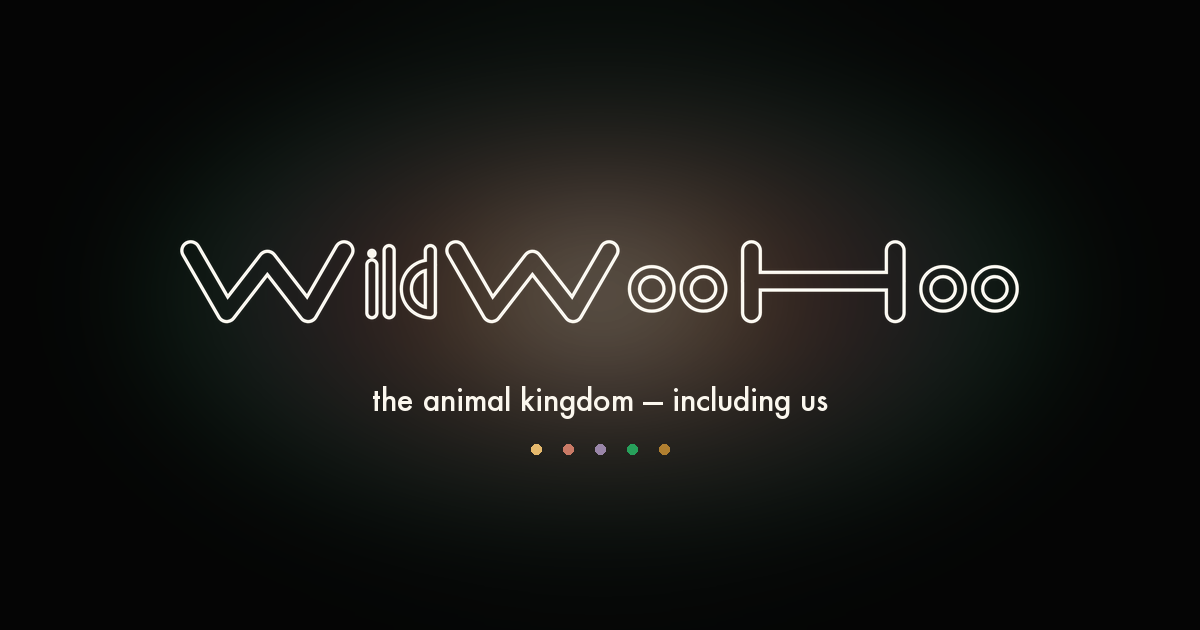
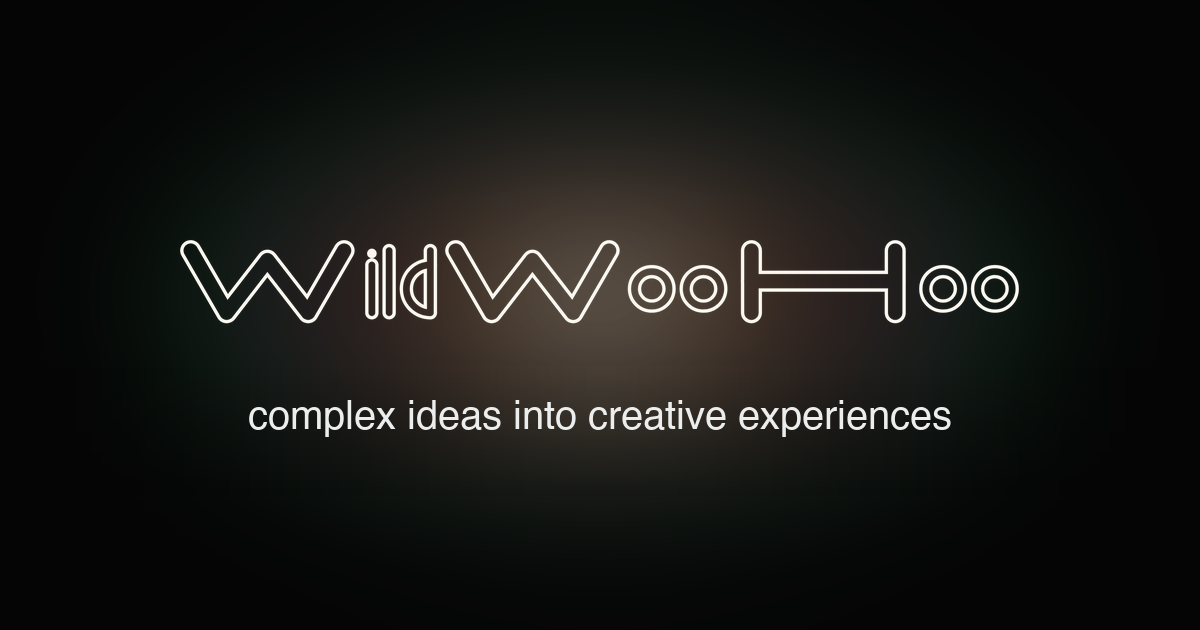
OG share card: new dark image (wordmark + 'complex ideas into creative experiences')
Regenerated og-card.png: kept the wordmark and dark composition, replaced the retired 'the animal kingdom - including us' tagline and dropped the old multi-colour dots. Bumped og:image ?v across all pages so social scrapers refetch.

Changed region(s): [[0.2158, 0.6032, 0.8017, 0.7238]]

diff --git a/index.html b/index.html
@@ -35,7 +35,7 @@
 <meta property="og:title" content="WildWooHoo: a creative innovation studio in Sydney">
 <meta property="og:description" content="WildWooHoo is a creative innovation studio in Sydney. One method turns complex ideas into creative experiences: science school incursions, STEAM workshops, experiential keynotes and sci pop music, from peer-reviewed research to popular culture.">
 <meta property="og:url" content="https://wildwoohoo.com/">
-<meta property="og:image" content="https://wildwoohoo.com/og-card.png?v=20260529c">
+<meta property="og:image" content="https://wildwoohoo.com/og-card.png?v=20260711">
 <meta property="og:image:width" content="1200">
 <meta property="og:image:height" content="630">
 <meta property="og:image:alt" content="WildWooHoo, a creative innovation studio in Sydney">
@@ -43,7 +43,7 @@
 <meta name="twitter:card" content="summary_large_image">
 <meta name="twitter:title" content="WildWooHoo: a creative innovation studio in Sydney">
 <meta name="twitter:description" content="WildWooHoo is a creative innovation studio in Sydney. One method turns complex ideas into creative experiences: science school incursions, STEAM workshops, experiential keynotes and sci pop music, from peer-reviewed research to popular culture.">
-<meta name="twitter:image" content="https://wildwoohoo.com/og-card.png?v=20260529c">
+<meta name="twitter:image" content="https://wildwoohoo.com/og-card.png?v=20260711">
 <link rel="alternate" hreflang="en-au" href="https://wildwoohoo.com/">
 <link rel="alternate" hreflang="en" href="https://wildwoohoo.com/">
 <link rel="alternate" hreflang="x-default" href="https://wildwoohoo.com/">
@@ -58,7 +58,7 @@
   "description": "WildWooHoo is a creative innovation studio in Sydney that turns complex ideas into creative experiences, delivering science school incursions, STEAM workshops, experiential keynotes and sci pop productions across Greater Sydney and Canberra.",
   "url": "https://wildwoohoo.com",
   "logo": "https://wildwoohoo.com/apple-touch-icon.png?v=20260608-clean",
-  "image": "https://wildwoohoo.com/og-card.png?v=20260529c",
+  "image": "https://wildwoohoo.com/og-card.png?v=20260711",
   "founder": {"@id": "https://drweli.com/#person"},
   "areaServed": [
     {"@type": "AdministrativeArea", "name": "Greater Sydney"},

diff --git a/news/scientists-in-popular-music/index.html b/news/scientists-in-popular-music/index.html
@@ -36,7 +36,7 @@
 <meta property="og:title" content="A career lane for science graduates drawn to film, music and culture">
 <meta property="og:description" content="A field guide for science graduates drawn to film, television, journalism and music. Named organisations, directories and rosters across screen advising, science communication and the emerging music corner, with real examples and how to start.">
 <meta property="og:url" content="https://wildwoohoo.com/news/scientists-in-popular-music/">
-<meta property="og:image" content="https://wildwoohoo.com/og-card.png?v=20260604">
+<meta property="og:image" content="https://wildwoohoo.com/og-card.png?v=20260711">
 <meta property="og:locale" content="en_AU">
 <meta property="article:published_time" content="2026-06-25T08:00:00Z">
 <meta property="article:section" content="News">
@@ -47,7 +47,7 @@
 <meta name="twitter:card" content="summary_large_image">
 <meta name="twitter:title" content="A career lane for science graduates drawn to film, music and culture">
 <meta name="twitter:description" content="A field guide for science graduates drawn to film, television, journalism and music. Named organisations, directories and rosters across screen advising, science communication and the emerging music corner, with real examples and how to start.">
-<meta name="twitter:image" content="https://wildwoohoo.com/og-card.png?v=20260604">
+<meta name="twitter:image" content="https://wildwoohoo.com/og-card.png?v=20260711">
 
 <script type="application/ld+json">
 {
@@ -60,7 +60,7 @@
   "publisher": {"@type": "Organization", "name": "WildWooHoo", "url": "https://wildwoohoo.com/", "logo": {"@type": "ImageObject", "url": "https://wildwoohoo.com/og-card.png"}},
   "mainEntityOfPage": {"@type": "WebPage", "@id": "https://wildwoohoo.com/news/scientists-in-popular-music/"},
   "description": "A field guide for science graduates drawn to film, television, journalism and music. Named organisations, directories and rosters across screen advising, science communication and the emerging music corner, with real examples and how to start.",
-  "image": "https://wildwoohoo.com/og-card.png?v=20260604"
+  "image": "https://wildwoohoo.com/og-card.png?v=20260711"
 }
 </script>
 

diff --git a/news/living-wild/index.html b/news/living-wild/index.html
@@ -36,7 +36,7 @@
 <meta property="og:title" content="Living Wild, the partnership reaching into the field">
 <meta property="og:description" content="WildWooHoo x WELI turns behavioural-ecology research into popular music. Living Wild welcomes research labs and field groups studying wild animals to make more sci pop stories from wildlife and the lives we share with it.">
 <meta property="og:url" content="https://wildwoohoo.com/news/living-wild/">
-<meta property="og:image" content="https://wildwoohoo.com/og-card.png?v=20260604">
+<meta property="og:image" content="https://wildwoohoo.com/og-card.png?v=20260711">
 <meta property="og:locale" content="en_AU">
 <meta property="article:published_time" content="2026-06-26T00:00:00Z">
 <meta property="article:section" content="News">
@@ -47,7 +47,7 @@
 <meta name="twitter:card" content="summary_large_image">
 <meta name="twitter:title" content="Living Wild, the partnership reaching into the field">
 <meta name="twitter:description" content="WildWooHoo x WELI welcomes research labs studying wild animals to make more sci pop stories from wildlife and the lives we share with it.">
-<meta name="twitter:image" content="https://wildwoohoo.com/og-card.png?v=20260604">
+<meta name="twitter:image" content="https://wildwoohoo.com/og-card.png?v=20260711">
 
 <script type="application/ld+json">
 {
@@ -60,7 +60,7 @@
   "publisher": {"@type": "Organization", "name": "WildWooHoo", "url": "https://wildwoohoo.com/", "logo": {"@type": "ImageObject", "url": "https://wildwoohoo.com/og-card.png"}},
   "mainEntityOfPage": {"@type": "WebPage", "@id": "https://wildwoohoo.com/news/living-wild/"},
   "description": "WildWooHoo x WELI turns behavioural-ecology research into popular music. Living Wild welcomes research labs and field groups studying wild animals to make more stories in popular music from wildlife and the lives we share with it.",
-  "image": "https://wildwoohoo.com/og-card.png?v=20260604"
+  "image": "https://wildwoohoo.com/og-card.png?v=20260711"
 }
 </script>
 

diff --git a/news/sync-licensed-international/index.html b/news/sync-licensed-international/index.html
@@ -33,7 +33,7 @@
 <meta property="og:title" content="International sync placements, MSNBC + UFA + Mustang III">
 <meta property="og:description" content="Kangaroo Time sync-licensed by three international broadcasters since 2024. The masters are held with cleared sync rights for sync agents and broadcasters.">
 <meta property="og:url" content="https://wildwoohoo.com/news/sync-licensed-international/">
-<meta property="og:image" content="https://wildwoohoo.com/og-card.png?v=20260604">
+<meta property="og:image" content="https://wildwoohoo.com/og-card.png?v=20260711">
 <meta property="og:locale" content="en_AU">
 <meta property="article:published_time" content="2024-03-01T00:00:00Z">
 <meta property="article:section" content="News">
@@ -45,7 +45,7 @@
 <meta name="twitter:card" content="summary_large_image">
 <meta name="twitter:title" content="International sync placements, MSNBC + UFA + Mustang III">
 <meta name="twitter:description" content="Kangaroo Time sync-licensed by three international broadcasters since 2024. Masters held with cleared sync rights.">
-<meta name="twitter:image" content="https://wildwoohoo.com/og-card.png?v=20260604">
+<meta name="twitter:image" content="https://wildwoohoo.com/og-card.png?v=20260711">
 
 <script type="application/ld+json">
 {
@@ -58,7 +58,7 @@
   "publisher": {"@type": "Organization", "name": "WildWooHoo", "url": "https://wildwoohoo.com/", "logo": {"@type": "ImageObject", "url": "https://wildwoohoo.com/og-card.png"}},
   "mainEntityOfPage": {"@type": "WebPage", "@id": "https://wildwoohoo.com/news/sync-licensed-international/"},
   "description": "Three international broadcasters sync-licensed Kangaroo Time in 2024: MSNBC The 11th Hour, UFA Show + Factual, and Productions Mustang III. Documentation of cleared rights, broadcaster context, and what the placements prove for sync agents and festival programmers.",
-  "image": "https://wildwoohoo.com/og-card.png?v=20260604"
+  "image": "https://wildwoohoo.com/og-card.png?v=20260711"
 }
 </script>
 

diff --git a/news/falling-walls-engage-2025/index.html b/news/falling-walls-engage-2025/index.html
@@ -33,7 +33,7 @@
 <meta property="og:title" content="Falling Walls Engage 2025, Top 30 for 'Science and the People'">
 <meta property="og:description" content="Dr WELI's public-engagement programme 'Science and the People' in the Top 30 of the Falling Walls Engage prize. WildWooHoo Studio formed afterwards.">
 <meta property="og:url" content="https://wildwoohoo.com/news/falling-walls-engage-2025/">
-<meta property="og:image" content="https://wildwoohoo.com/og-card.png?v=20260604">
+<meta property="og:image" content="https://wildwoohoo.com/og-card.png?v=20260711">
 <meta property="og:locale" content="en_AU">
 <meta property="article:published_time" content="2025-11-01T00:00:00Z">
 <meta property="article:section" content="News">
@@ -44,7 +44,7 @@
 <meta name="twitter:card" content="summary_large_image">
 <meta name="twitter:title" content="Falling Walls Engage 2025, Top 30 for 'Science and the People'">
 <meta name="twitter:description" content="Dr WELI's public-engagement programme 'Science and the People' in the Top 30. WildWooHoo Studio formed afterwards.">
-<meta name="twitter:image" content="https://wildwoohoo.com/og-card.png?v=20260604">
+<meta name="twitter:image" content="https://wildwoohoo.com/og-card.png?v=20260711">
 
 <script type="application/ld+json">
 {
@@ -57,7 +57,7 @@
   "publisher": {"@type": "Organization", "name": "WildWooHoo", "url": "https://wildwoohoo.com/", "logo": {"@type": "ImageObject", "url": "https://wildwoohoo.com/og-card.png"}},
   "mainEntityOfPage": {"@type": "WebPage", "@id": "https://wildwoohoo.com/news/falling-walls-engage-2025/"},
   "description": "Dr WELI's public-engagement programme 'Science and the People' was named in the Top 30 of the 2025 Falling Walls Engage prize. WildWooHoo Studio formed afterwards. Full proposal at weli.my.canva.site/scienceforthepeople.",
-  "image": "https://wildwoohoo.com/og-card.png?v=20260604"
+  "image": "https://wildwoohoo.com/og-card.png?v=20260711"
 }
 </script>
 

diff --git a/news/dance-your-phd-2024/index.html b/news/dance-your-phd-2024/index.html
@@ -33,7 +33,7 @@
 <meta property="og:title" content="Dance Your PhD 2024, Kangaroo Time wins">
 <meta property="og:description" content="On 26 February 2024, Kangaroo Time was named the AAAS Dance Your PhD Global Winner 2024. How a behaviour-ecology PhD became a song, a music video and a multicultural dance cast.">
 <meta property="og:url" content="https://wildwoohoo.com/news/dance-your-phd-2024/">
-<meta property="og:image" content="https://wildwoohoo.com/og-card.png?v=20260604">
+<meta property="og:image" content="https://wildwoohoo.com/og-card.png?v=20260711">
 <meta property="og:locale" content="en_AU">
 <meta property="article:published_time" content="2024-02-26T16:00:00Z">
 <meta property="article:section" content="News">
@@ -44,7 +44,7 @@
 <meta name="twitter:card" content="summary_large_image">
 <meta name="twitter:title" content="Dance Your PhD 2024, Kangaroo Time wins">
 <meta name="twitter:description" content="On 26 February 2024, Kangaroo Time was named the AAAS Dance Your PhD Global Winner 2024. How a behaviour-ecology PhD became a song and a music video.">
-<meta name="twitter:image" content="https://wildwoohoo.com/og-card.png?v=20260604">
+<meta name="twitter:image" content="https://wildwoohoo.com/og-card.png?v=20260711">
 
 <script type="application/ld+json">
 {
@@ -57,7 +57,7 @@
   "publisher": {"@type": "Organization", "name": "WildWooHoo", "url": "https://wildwoohoo.com/", "logo": {"@type": "ImageObject", "url": "https://wildwoohoo.com/og-card.png"}},
   "mainEntityOfPage": {"@type": "WebPage", "@id": "https://wildwoohoo.com/news/dance-your-phd-2024/"},
   "description": "On 26 February 2024, Kangaroo Time was named the AAAS Dance Your PhD Global Winner 2024. The story of the work, the press coverage and the events that followed.",
-  "image": "https://wildwoohoo.com/og-card.png?v=20260604"
+  "image": "https://wildwoohoo.com/og-card.png?v=20260711"
 }
 </script>
 

diff --git a/news/cabra-da-peste-2024/index.html b/news/cabra-da-peste-2024/index.html
@@ -33,7 +33,7 @@
 <meta property="og:title" content="Cabra da Peste, a song to open the Encontro Anual de Etologia 2024">
 <meta property="og:description" content="A research-to-song original by WELI, commissioned to open Brazil's annual ethology meeting. Funded by an ACT Science Week grant.">
 <meta property="og:url" content="https://wildwoohoo.com/news/cabra-da-peste-2024/">
-<meta property="og:image" content="https://wildwoohoo.com/og-card.png?v=20260604">
+<meta property="og:image" content="https://wildwoohoo.com/og-card.png?v=20260711">
 <meta property="og:locale" content="en_AU">
 <meta property="article:published_time" content="2024-12-01T00:00:00Z">
 <meta property="article:section" content="News">
@@ -44,7 +44,7 @@
 <meta name="twitter:card" content="summary_large_image">
 <meta name="twitter:title" content="Cabra da Peste, a song to open the Encontro Anual de Etologia 2024">
 <meta name="twitter:description" content="A research-to-song original by WELI, commissioned to open Brazil's annual ethology meeting.">
-<meta name="twitter:image" content="https://wildwoohoo.com/og-card.png?v=20260604">
+<meta name="twitter:image" content="https://wildwoohoo.com/og-card.png?v=20260711">
 
 <script type="application/ld+json">
 {
@@ -57,7 +57,7 @@
   "publisher": {"@type": "Organization", "name": "WildWooHoo", "url": "https://wildwoohoo.com/", "logo": {"@type": "ImageObject", "url": "https://wildwoohoo.com/og-card.png"}},
   "mainEntityOfPage": {"@type": "WebPage", "@id": "https://wildwoohoo.com/news/cabra-da-peste-2024/"},
   "description": "Cabra da Peste (G.O.A.T.) is a research-to-song original by WELI, commissioned to open the Encontro Anual de Etologia 2024, the Brazilian Ethology Society's annual meeting. Funded by an ACT Science Week grant.",
-  "image": "https://wildwoohoo.com/og-card.png?v=20260604"
+  "image": "https://wildwoohoo.com/og-card.png?v=20260711"
 }
 </script>
 

diff --git a/news/what-we-stand-for/index.html b/news/what-we-stand-for/index.html
@@ -34,7 +34,7 @@
 <meta property="og:title" content="What we stand for, the commitments that guide the work">
 <meta property="og:description" content="The commitments that guide WildWooHoo as it makes science-in-culture work, the values it holds to across every project, science and language.">
 <meta property="og:url" content="https://wildwoohoo.com/news/what-we-stand-for/">
-<meta property="og:image" content="https://wildwoohoo.com/og-card.png?v=20260604">
+<meta property="og:image" content="https://wildwoohoo.com/og-card.png?v=20260711">
 <meta property="og:locale" content="en_AU">
 <meta property="article:published_time" content="2026-03-14T08:00:00Z">
 <meta property="article:section" content="News">
@@ -45,7 +45,7 @@
 <meta name="twitter:card" content="summary_large_image">
 <meta name="twitter:title" content="What we stand for, the commitments that guide the work">
 <meta name="twitter:description" content="The commitments that guide WildWooHoo as it makes science-in-culture work, the values it holds to across every project, science and language.">
-<meta name="twitter:image" content="https://wildwoohoo.com/og-card.png?v=20260604">
+<meta name="twitter:image" content="https://wildwoohoo.com/og-card.png?v=20260711">
 
 <script type="application/ld+json">
 {
@@ -58,7 +58,7 @@
   "publisher": {"@type": "Organization", "name": "WildWooHoo", "url": "https://wildwoohoo.com/", "logo": {"@type": "ImageObject", "url": "https://wildwoohoo.com/og-card.png"}},
   "mainEntityOfPage": {"@type": "WebPage", "@id": "https://wildwoohoo.com/news/what-we-stand-for/"},
   "description": "The commitments that guide WildWooHoo as it makes science-in-culture work, the values it holds to across every project, science and language.",
-  "image": "https://wildwoohoo.com/og-card.png?v=20260604"
+  "image": "https://wildwoohoo.com/og-card.png?v=20260711"
 }
 </script>
 

diff --git a/news/kangaroo-time-2024/index.html b/news/kangaroo-time-2024/index.html
@@ -33,7 +33,7 @@
 <meta property="og:title" content="Kangaroo Time, WELI's song and film">
 <meta property="og:description" content="A peer-reviewed kangaroo study turned into a song, a film and a dance cast from multicultural Canberra. The AAAS Dance Your PhD Global Winner 2024.">
 <meta property="og:url" content="https://wildwoohoo.com/news/kangaroo-time-2024/">
-<meta property="og:image" content="https://wildwoohoo.com/og-card.png?v=20260604">
+<meta property="og:image" content="https://wildwoohoo.com/og-card.png?v=20260711">
 <meta property="og:locale" content="en_AU">
 <meta property="article:published_time" content="2024-09-01T00:00:00Z">
 <meta property="article:section" content="News">
@@ -44,7 +44,7 @@
 <meta name="twitter:card" content="summary_large_image">
 <meta name="twitter:title" content="Kangaroo Time, WELI's song and film">
 <meta name="twitter:description" content="A peer-reviewed kangaroo study turned into a song, a film and a dance. The AAAS Dance Your PhD Global Winner 2024.">
-<meta name="twitter:image" content="https://wildwoohoo.com/og-card.png?v=20260604">
+<meta name="twitter:image" content="https://wildwoohoo.com/og-card.png?v=20260711">
 
 <script type="application/ld+json">
 {
@@ -57,7 +57,7 @@
   "publisher": {"@type": "Organization", "name": "WildWooHoo", "url": "https://wildwoohoo.com/", "logo": {"@type": "ImageObject", "url": "https://wildwoohoo.com/og-card.png"}},
   "mainEntityOfPage": {"@type": "WebPage", "@id": "https://wildwoohoo.com/news/kangaroo-time-2024/"},
   "description": "Kangaroo Time turns Dr WELI's peer-reviewed kangaroo research into a song, a film and a dance cast drawn from multicultural Canberra. It became the AAAS Dance Your PhD Global Winner 2024.",
-  "image": "https://wildwoohoo.com/og-card.png?v=20260604"
+  "image": "https://wildwoohoo.com/og-card.png?v=20260711"
 }
 </script>
 

diff --git a/engagement/index.html b/engagement/index.html
@@ -31,7 +31,7 @@
 <meta property="og:title" content="Science engagement: talks, workshops, residencies and festival performances — WildWooHoo">
 <meta property="og:description" content="Science engagement from WildWooHoo: keynotes and conference energisers, science-art residencies and commissions, festival and community workshops. Across Sydney and Canberra. Book via Dr WELI.">
 <meta property="og:url" content="https://wildwoohoo.com/engagement/">
-<meta property="og:image" content="https://wildwoohoo.com/og-card.png?v=20260604">
+<meta property="og:image" content="https://wildwoohoo.com/og-card.png?v=20260711">
 <meta property="og:image:width" content="1200">
 <meta property="og:image:height" content="630">
 <meta property="og:image:alt" content="WildWooHoo brand card with the studio wordmark and green chip logo">
@@ -39,7 +39,7 @@
 <meta name="twitter:card" content="summary_large_image">
 <meta name="twitter:title" content="Science engagement: talks, workshops, residencies and festival performances — WildWooHoo">
 <meta name="twitter:description" content="Science engagement from WildWooHoo: keynotes and conference energisers, science-art residencies and commissions, festival and community workshops. Across Sydney and Canberra. Book via Dr WELI.">
-<meta name="twitter:image" content="https://wildwoohoo.com/og-card.png?v=20260604">
+<meta name="twitter:image" content="https://wildwoohoo.com/og-card.png?v=20260711">
 <meta name="twitter:image:alt" content="WildWooHoo brand card with the studio wordmark and green chip logo">
 <link rel="alternate" hreflang="en-au" href="https://wildwoohoo.com/engagement/">
 <link rel="alternate" hreflang="en" href="https://wildwoohoo.com/engagement/">

diff --git a/sci-pop/index.html b/sci-pop/index.html
@@ -31,7 +31,7 @@
 <meta property="og:title" content="Sci Pop — Science Pop Music & Songs About Science | WildWooHoo">
 <meta property="og:description" content="A science aesthetic and theme in contemporary popular music. Pop songs that carry science as theme and image, across the natural world and the technologies we build. Coined and built by WildWooHoo. Featured artist WELI.">
 <meta property="og:url" content="https://wildwoohoo.com/sci-pop/">
-<meta property="og:image" content="https://wildwoohoo.com/og-card.png?v=20260604">
+<meta property="og:image" content="https://wildwoohoo.com/og-card.png?v=20260711">
 <meta property="og:image:width" content="1200">
 <meta property="og:image:height" content="630">
 <meta property="og:image:alt" content="WildWooHoo brand card with the studio wordmark and green chip logo">
@@ -39,7 +39,7 @@
 <meta name="twitter:card" content="summary_large_image">
 <meta name="twitter:title" content="Sci Pop — Science Pop Music & Songs About Science | WildWooHoo">
 <meta name="twitter:description" content="Pop songs that carry science as theme and image, from peer-reviewed research to the cultural imaginaries of science and scientists. Coined and built by WildWooHoo. Featured artist WELI.">
-<meta name="twitter:image" content="https://wildwoohoo.com/og-card.png?v=20260604">
+<meta name="twitter:image" content="https://wildwoohoo.com/og-card.png?v=20260711">
 <meta name="twitter:image:alt" content="WildWooHoo brand card with the studio wordmark and green chip logo">
 <link rel="alternate" hreflang="en-au" href="https://wildwoohoo.com/sci-pop/">
 <link rel="alternate" hreflang="en" href="https://wildwoohoo.com/sci-pop/">

diff --git a/wildwoohoo-x-weli/index.html b/wildwoohoo-x-weli/index.html
@@ -31,7 +31,7 @@
 <meta property="og:title" content="WildWooHoo x WELI: WildWooHoo">
 <meta property="og:description" content="The studio's artist-led behavioural-ecology partnership. A peer-reviewed kangaroo research programme becomes music, books and school programmes. WELI fronts and founds it, WildWooHoo produces, and partners can back, share or commission.">
 <meta property="og:url" content="https://wildwoohoo.com/wildwoohoo-x-weli/">
-<meta property="og:image" content="https://wildwoohoo.com/og-card.png?v=20260604">
+<meta property="og:image" content="https://wildwoohoo.com/og-card.png?v=20260711">
 <meta property="og:image:width" content="1200">
 <meta property="og:image:height" content="630">
 <meta property="og:image:alt" content="WildWooHoo brand card with the studio wordmark and green chip logo">
@@ -39,7 +39,7 @@
 <meta name="twitter:card" content="summary_large_image">
 <meta name="twitter:title" content="WildWooHoo x WELI: WildWooHoo">
 <meta name="twitter:description" content="The studio's artist-led behavioural-ecology partnership. A peer-reviewed kangaroo research programme made into music, books and school programmes. WELI fronts and founds it, WildWooHoo produces.">
-<meta name="twitter:image" content="https://wildwoohoo.com/og-card.png?v=20260604">
+<meta name="twitter:image" content="https://wildwoohoo.com/og-card.png?v=20260711">
 <meta name="twitter:image:alt" content="WildWooHoo brand card with the studio wordmark and green chip logo">
 <link rel="alternate" hreflang="en-au" href="https://wildwoohoo.com/wildwoohoo-x-weli/">
 <link rel="alternate" hreflang="en" href="https://wildwoohoo.com/wildwoohoo-x-weli/">
